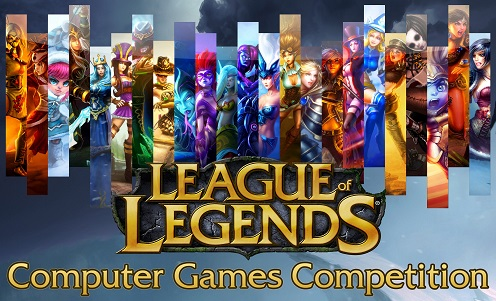
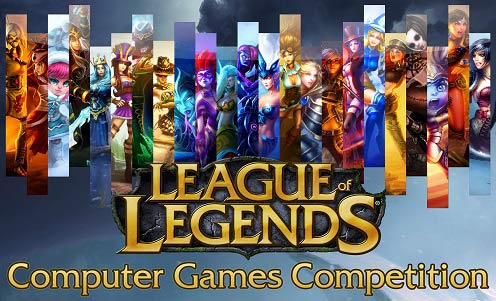
Added Compressed Images
bigscreen loads uncompressed images
smallscreen loads compressed images

diff --git a/index.html b/index.html
@@ -22,7 +22,7 @@
     		<div class="zero" data-0="top:0px;" data-300="top:250px;">
                 <div style="position:relative;" data-0="top:0px;" data-300="top:250px;">
     			<span><a href="http://deploywith.us"><img src="image/cslogoweb.png " width="100" height="100"/></a></span>
-				<span class="text"><a href="index.html"> Computer Society </a></span> <br>			
+				<span class="text"><a href="http://deploywith.us"> Computer Society </a></span> <br>			
                 </div>
     		</div>
 			<div class="one section">
@@ -31,7 +31,7 @@
 				<div class="blocks"><a href="Industrial Exposure.html"><img class="blockimages" src="image/INDUSTRIAL_EXPOSURE_BLOCK.jpg"/></a></div>
 				<div class="blocks"><a href="ITFair.html"><img class="blockimagesborder" src="image/IT_FAIR_BLOCK.jpg"/></a></div>
 				<div class="blocks"><a href="FleaMarket.html"><img class="blockimages" src="image/FLEA_MARKET_BLOCK.jpg"/></a></div>
-				<div class="blocks"><a href="GamingCompetition.html"><img class="blockimages" src="image/GAME_COMPETITION_BLOCK(HI-RES).jpg"/></a></div>
+				<div class="blocks"><a href="GamingCompetition.html"><img class="blockimages" src="image/GAME_COMPETITION_BLOCK.jpg"/></a></div>
 				<div class="blocks"><a href="InteractionNight.html"><img class="blockimages" src="image/INTERACTION_NIGHT_BLOCK.jpg"/></a></div>      
             </div>
 			
@@ -45,13 +45,13 @@
                     <div class="fbbutton" data-450="opacity:0;" data-850="opacity:1;"><a href="fblink.html"><i class="fa fa-facebook"></i></a></div><br>
                 </p>
                 <div class="imageleft" data-450="right:50%;" data-850="right:-30%;">
-                    <img src="image/onebg.png" class="image"/>
+                    <img src="image/onebg (big).png" class="image"/>
                 </div>
     		</div>
             
             <div class="footer">
-                Developed by<br><span style="color: #68A4F2">UTAR Computer Society Dev Team</span><br><br>
-                <a href="http://deploywith.us"><img src="image/cslogoweb.png" width="30" height="30"/></a>
+                Developed by<br><span style="color: #68A4F2">UTAR Computer Society Dev Team</span><br>
+                <a href="http://deploywith.us"><img class="footerlogo" src="image/cslogoweb.png" width=30/></a>
             </div>
     	</div>
     	<script src="js/skrollr.min.js"></script>

diff --git a/ITFair.html b/ITFair.html
@@ -17,7 +17,7 @@
     		<div class="zero" data-0="top:0px;" data-300="top:250px;">
                 <div style="position:relative;" data-0="top:0px;" data-300="top:250px;">
     			<span><a href="http://deploywith.us"><img src="image/cslogoweb.png" width="100" height="100"/></a></span>
-				<span class="text"><a href="index.html"> Computer Society </a></span> <br>			
+				<span class="text"><a href="http://deploywith.us"> Computer Society </a></span> <br>			
                 </div>
     		</div>
 			
@@ -36,17 +36,17 @@
                 <h1>Featuring</h1>
 				<br><br>
 				<span class="ITFairText">
-				<img class="ITFairImage" src="image/discount2.png" width="250" height="250"/> Happy Hours
+				<img class="ITFairImage" id="discount" src="image/discount (big).png" width=250/> Happy Hours
 				<br><br>
-				Lucky Draw Prizes <img class="ITFairImage" src="image/presents.png" width="200" height="200"/>
+				Lucky Draw Prizes <img class="ITFairImage" src="image/presents.png" width=200/>
 				<br><br>
-				<img class="ITFairImage" src="image/bidding.png" width="213" height="213"/> Bidding Sessions
+				<img class="ITFairImage" id="bidding" src="image/bidding (big).png" width=210/> Bidding Sessions
 				<br><br><br>
 				</span>
 				<br>
 				Leap Motion Booth
 				<br>
-				<img class="ITFairImage" src="image/leap_motion_logo.png" width="213" height="213"/>		
+				<img class="ITFairImage" src="image/leap_motion_logo.png" width=210/>		
 				<br>
 				<span style="font-size:15px">Experience The Leap Motion 3D Controller.</span>
 				<br><br>
@@ -107,8 +107,8 @@
 			</div>
 			
             <div class="footer">
-                Developed by<br><span style="color: #68A4F2">UTAR Computer Society Dev Team</span><br><br>
-                <a href="http://deploywith.us"><img src="image/cslogoweb.png" width="30" height="30"/></a>
+                Developed by<br><span style="color: #68A4F2">UTAR Computer Society Dev Team</span><br>
+                <a href="http://deploywith.us"><img class="footerlogo" src="image/cslogoweb.png" width=30/></a>
             </div>
     	</div>
 		

diff --git a/GamingCompetition.html b/GamingCompetition.html
@@ -18,7 +18,7 @@
     		<div class="zero" data-0="top:0px;" data-300="top:250px;">
                 <div style="position:relative;" data-0="top:0px;" data-300="top:250px;">
     			<span><a href="http://deploywith.us"><img src="image/cslogoweb.png" width="100" height="100"/></a></span>
-				<span class="text"><a href="index.html"> Computer Society </a></span> <br>			
+				<span class="text"><a href="http://deploywith.us"> Computer Society </a></span> <br>			
                 </div>
     		</div>
 			
@@ -48,7 +48,7 @@
 				<br><br>
 				An event organized by UTAR Computer Society.
 				<br>
-				Supported by<img src="image/G-black.png" width="100" height="100"/>
+				Supported by<img src="image/G-black.png" width=100/>
 				</h2>
 				<br><br>
 				<span style="font-size: 15px;">** TERMS & CONDITIONS APPLIED</span>
@@ -76,8 +76,8 @@
             </div>
 			
             <div class="footer">
-                Developed by<br><span style="color: #68A4F2">UTAR Computer Society Dev Team</span><br><br>
-                <a href="http://deploywith.us"><img src="image/cslogoweb.png" width="30" height="30"/></a>
+                Developed by<br><span style="color: #68A4F2">UTAR Computer Society Dev Team</span><br>
+                <a href="http://deploywith.us"><img class="footerlogo" src="image/cslogoweb.png" width=30/></a>
             </div>
     	</div>
     	<script src="js/skrollr.min.js"></script>

diff --git a/css/default.css b/css/default.css
@@ -130,7 +130,7 @@ a:hover, a:link{
 	color: #FFF;
 	vertical-align: center;
 	padding-top: 1.5em;
-	background-image: url('../image/cover0.jpg');
+	background-image: url('../image/cover (big).jpg');
 	background-position:center right; 
 	background-size: 100%;
     text-align: center;
@@ -207,6 +207,10 @@ a:hover, a:link{
 	background-color: #252427;
 	color: #FFF;
 	text-align: center;
+}
+
+.footerlogo{
+	padding-top: 0.75em;
 }
 
 .fbbutton {
@@ -349,6 +353,7 @@ a:hover, a:link{
 	.zero
 	{
 		background-size: 150%;
+		background-image: url('../image/cover.jpg');
 		padding-top: 0.6em;
 		padding-bottom: 1em;
 		height: 100px;
@@ -359,6 +364,7 @@ a:hover, a:link{
 		display: block;
 		margin-top: 5px;
 		position: relative;
+		
 		top: 0;
 	}
 
@@ -388,15 +394,26 @@ a:hover, a:link{
 	.imageleft, .imageright{
 		top: -20%;
 	}
+	
+	.image{
+		content: url('../image/onebg.png');
+	}
+	
+	#discount{
+		content: url('../image/discount.png');
+	}
+	
+	#bidding{
+		content: url('../image/bidding.png');
+	}
+		
 }
 
 @media screen and (max-width: 405px){ 	
 	.ITFairText{
 		font-size: 15px;
 	}
-}
-
-@media screen and (max-width: 363px){ 
+	
 	.ITFairImage{
 		width: 50%;
 		height: 50%;

diff --git a/Industrial Exposure.html b/Industrial Exposure.html
@@ -18,7 +18,7 @@
     		<div class="zero" data-0="top:0px;" data-300="top:250px;">
                 <div style="position:relative;" data-0="top:0px;" data-300="top:250px;">
     			<span><a href="http://deploywith.us"><img src="image/cslogoweb.png" width="100" height="100"/></a></span>
-				<span class="text"><a href="index.html"> Computer Society </a></span> <br>			
+				<span class="text"><a href="http://deploywith.us"> Computer Society </a></span> <br>			
                 </div>
     		</div>
 			
@@ -106,8 +106,8 @@
             </div>
             
             <div class="footer">
-                Developed by<br><span style="color: #68A4F2">UTAR Computer Society Dev Team</span><br><br>
-                <a href="http://deploywith.us"><img src="image/cslogoweb.png" width="30" height="30"/></a>
+                Developed by<br><span style="color: #68A4F2">UTAR Computer Society Dev Team</span><br>
+                <a href="http://deploywith.us"><img class="footerlogo" src="image/cslogoweb.png" width=30/></a>
             </div>
     	</div>
     	<script src="js/skrollr.min.js"></script>

diff --git a/InteractionNight.html b/InteractionNight.html
@@ -18,7 +18,7 @@
     		<div class="zero" data-0="top:0px;" data-300="top:250px;">
                 <div style="position:relative;" data-0="top:0px;" data-300="top:250px;">
     			<span><a href="http://deploywith.us"><img src="image/cslogoweb.png" width="100" height="100"/></a></span>
-				<span class="text"><a href="index.html"> Computer Society </a></span> <br>			
+				<span class="text"><a href="http://deploywith.us"> Computer Society </a></span> <br>			
                 </div>
     		</div>
 			
@@ -35,8 +35,8 @@
             </div>
             	
             <div class="footer">
-                Developed by<br><span style="color: #68A4F2">UTAR Computer Society Dev Team</span><br><br>
-                <a href="http://deploywith.us"><img src="image/cslogoweb.png" width="30" height="30"/></a>
+                Developed by<br><span style="color: #68A4F2">UTAR Computer Society Dev Team</span><br>
+                <a href="http://deploywith.us"><img class="footerlogo" src="image/cslogoweb.png" width=30/></a>
             </div>
     	</div>
     	<script src="js/skrollr.min.js"></script>

diff --git a/FleaMarket.html b/FleaMarket.html
@@ -18,7 +18,7 @@
     		<div class="zero" data-0="top:0px;" data-300="top:250px;">
                 <div style="position:relative;" data-0="top:0px;" data-300="top:250px;">
     			<span><a href="http://deploywith.us"><img src="image/cslogoweb.png" width="100" height="100"/></a></span>
-				<span class="text"><a href="index.html"> Computer Society </a></span> <br>			
+				<span class="text"><a href="http://deploywith.us"> Computer Society </a></span> <br>			
                 </div>
     		</div>
 			
@@ -34,8 +34,8 @@
             </div>
             
             <div class="footer">
-                Developed by<br><span style="color: #68A4F2">UTAR Computer Society Dev Team</span><br><br>
-                <a href="http://deploywith.us"><img src="image/cslogoweb.png" width="30" height="30"/></a>
+                Developed by<br><span style="color: #68A4F2">UTAR Computer Society Dev Team</span><br>
+                <a href="http://deploywith.us"><img class="footerlogo" src="image/cslogoweb.png" width=30/></a>
             </div>
     	</div>
     	<script src="js/skrollr.min.js"></script>

diff --git a/fblink.html b/fblink.html
@@ -2,7 +2,7 @@
 <html>
 <head>
 <meta charset="UTF-8">
-<title>FBlink test</title>
+<title>UTAR Computer Society</title>
 <script src="js/detect.js"></script>
 <script>
 if(window.ui.mobile)
